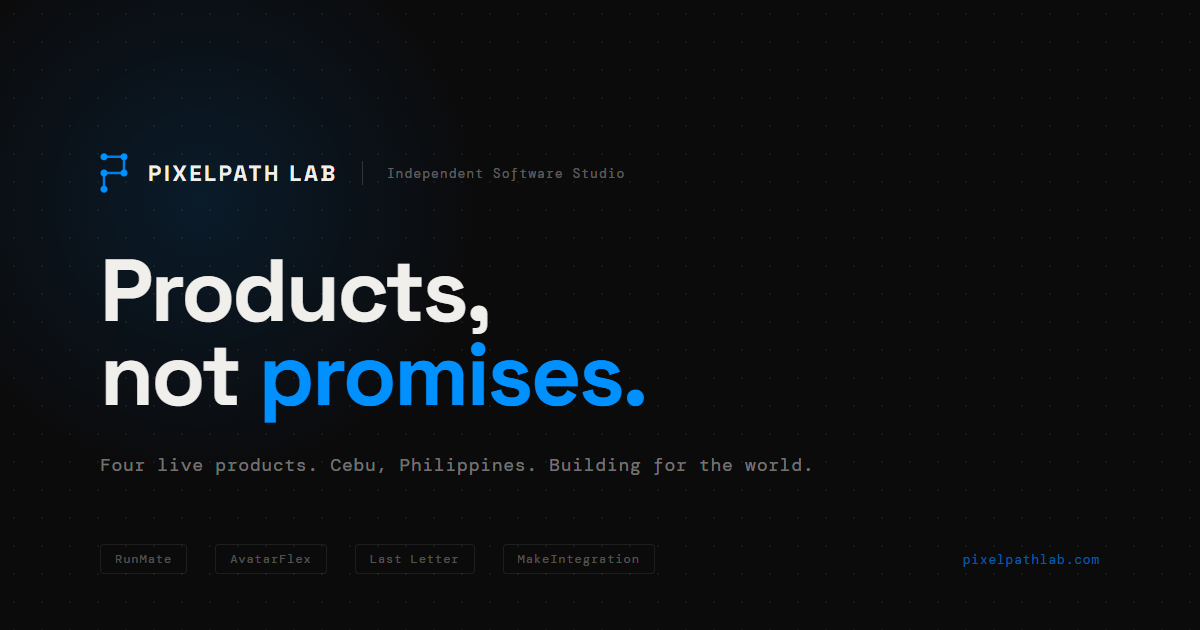
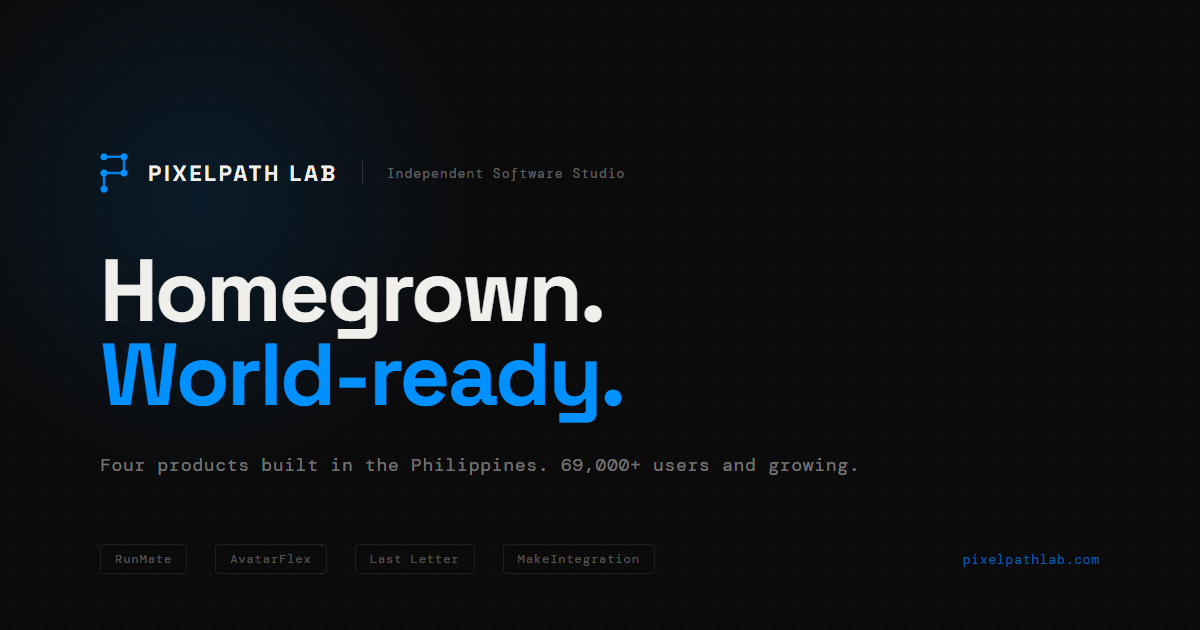
Update OG image to Homegrown. World-ready.

Changed region(s): [[0.0617, 0.5429, 0.555, 0.6937], [0.0925, 0.3921, 0.5242, 0.5429], [0.1233, 0.7238, 0.7092, 0.754]]

diff --git a/og-source.html b/og-source.html
@@ -124,8 +124,8 @@
       <div class="divider"></div>
       <span class="studio-label">Independent Software Studio</span>
     </div>
-    <h1>Products,<br>not <span>promises.</span></h1>
-    <p class="tagline">Four live products. Philippines. Building for the world.</p>
+    <h1>Homegrown.<br><span>World-ready.</span></h1>
+    <p class="tagline">Four products built in the Philippines. 69,000+ users and growing.</p>
   </div>
   <div class="bottom-row">
     <div class="products">
